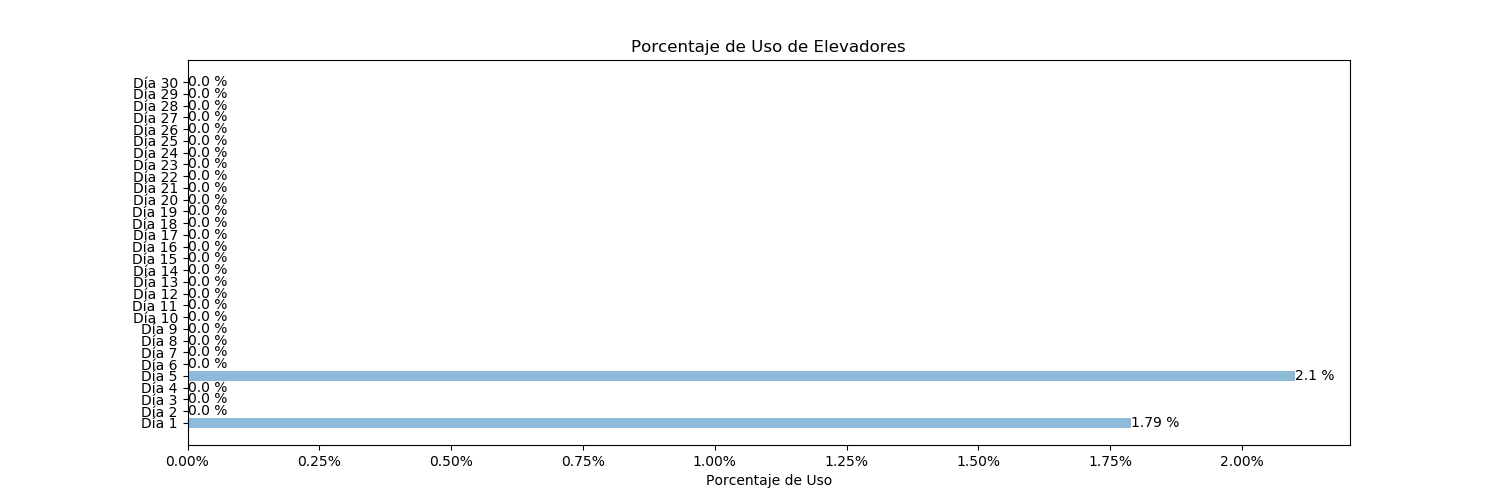
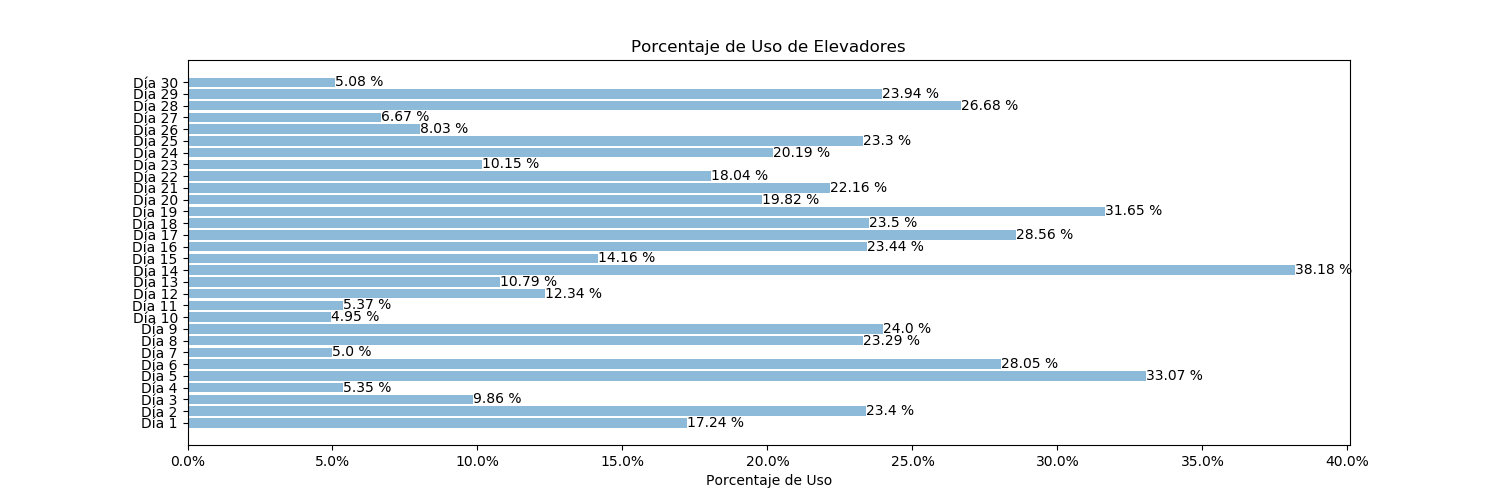
solucion de bug

diff --git a/controladores/controlador_graficos.py b/controladores/controlador_graficos.py
@@ -68,7 +68,9 @@ class ControladorGraficos(QDialog):
         dataset = [0] * len(self.elevadores)
         for i in range(0,len(self.elevadores)):
             elevador_arreglo = self.elevadores[i].get_arreglo_horas_dia()
-            dataset[i]  = float("{0:.2f}".format(((np.mean(elevador_arreglo)*100)/self.dias_simulacion)))
+            dataset[i]  = float("{0:.2f}".format(((np.mean(elevador_arreglo)*100)/(self.dias_simulacion*600))))
+            
+            print("El valor es: " + str(dataset[i]))
             
 
 
